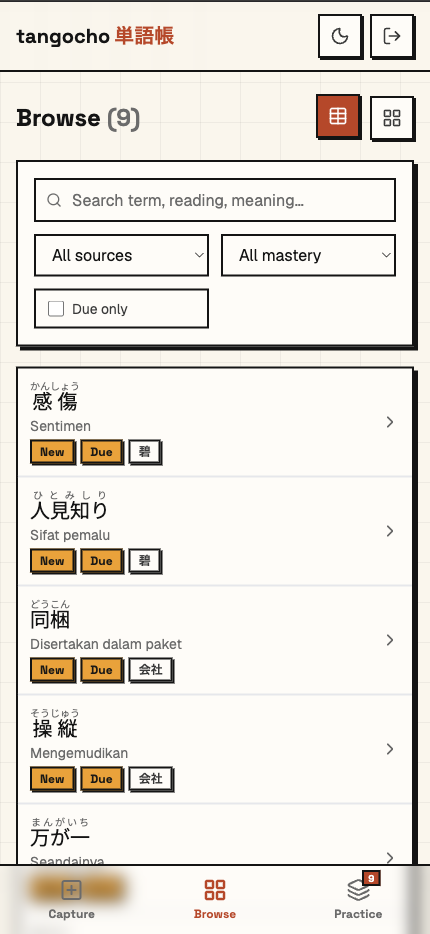
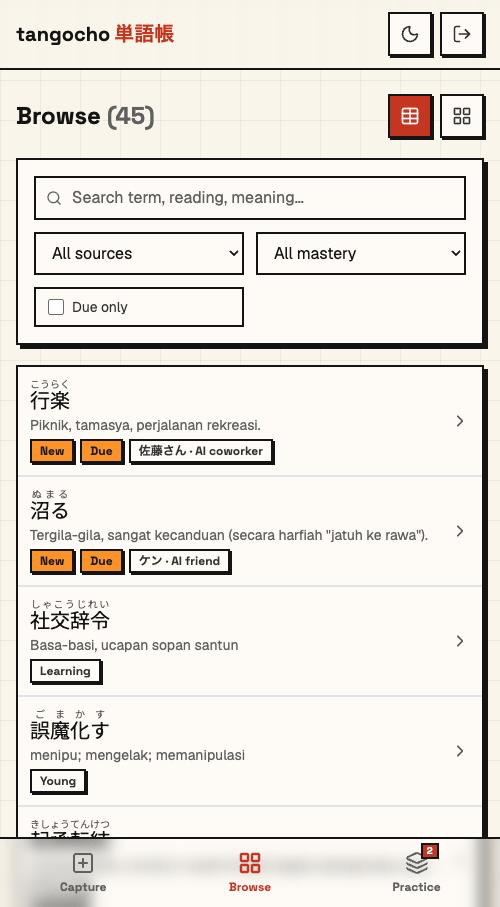
docs: cover AI friends and daily push on /about and in the README
About page gains Friends and Reminders feature cards (EN/JA), the new
pipeline in "How it's built", Web Push/Vercel Cron badges and a Friends
screenshot. All app screenshots retaken on the current UI; landing
screenshot refreshed. README documents the daily-word pipeline, cron,
structure and env vars. .env.local.example is now tracked (it was
gitignored) with the new variables and a placeholder email.

Changed region(s): [[0.0, 0.0, 1.0, 1.0], [0.0302, 0.0, 0.4233, 0.0617]]

diff --git a/constants/aboutCopy.ts b/constants/aboutCopy.ts
@@ -10,7 +10,7 @@ const en = {
     titleBefore: 'Capture Japanese words the moment you hear them — and never ',
     titleHighlight: 'forget',
     titleAfter: ' them.',
-    body: 'A single-user app I built to learn Japanese while living in Japan: fast AI-assisted capture, the memory of where each word came from, and spaced-repetition review.',
+    body: 'A single-user app I built to learn Japanese while living in Japan: fast AI-assisted capture, the memory of where each word came from, new words every morning from AI friends, and spaced-repetition review.',
     signIn: 'Sign in',
     portfolio: 'Portfolio ↗',
     private: 'It’s a private, single-account app (email allowlist) — this page is the tour.',
@@ -21,6 +21,8 @@ const en = {
     { title: 'Browse', jp: '一覧', body: 'Every word as a table or bento grid, with furigana. Filter by source, mastery, or what’s due. Tap for full detail.' },
     { title: 'Practice', jp: '復習', body: 'SM-2 spaced-repetition flashcards. Flip, rate forgot / hard / easy, and the app schedules the next review.' },
     { title: 'Speak', jp: '話す', body: 'See the meaning, say the word out loud. Speech recognition checks what it heard against the word, then plays the correct pronunciation so you can compare.' },
+    { title: 'Friends', jp: '友達', body: 'Create AI characters — a casual friend, a polite coworker — with their own themes. Each day they mention 4 new words in a one-line message; keep the ones worth learning.' },
+    { title: 'Reminders', jp: '通知', body: 'A push notification at 07:00 brings a friend’s line and what’s due today, so new words keep coming even on days I forget to open the app.' },
   ],
   story: {
     heading: 'Why I built it',
@@ -47,9 +49,10 @@ const en = {
     browse: { alt: 'Browse list with filters', caption: 'Browse · filter & search' },
     detail: { alt: 'Word detail with furigana example', caption: 'Detail · meaning, example, source' },
     practice: { alt: 'Practice flashcard', caption: 'Practice · SM-2 flashcards' },
-    speak: { alt: 'Speak mode: meaning shown, spoken answer heard and marked correct', caption: 'Speak · say it out loud' },
-    progress: { alt: 'Progress dashboard', caption: 'Progress · mastery & streak' },
-    home: { alt: 'Home dashboard', caption: 'Home · at a glance' },
+    speak: { alt: 'Speak mode: the meaning is shown and a mic button asks for the word in Japanese', caption: 'Speak · say it out loud' },
+    progress: { alt: 'Progress dashboard with mastery, daily reviews and friend-word save rate', caption: 'Progress · mastery & save rate' },
+    friends: { alt: 'Friends page with a casual friend and a polite coworker, and the daily notification toggle', caption: 'Friends · AI characters' },
+    home: { alt: 'Home with today’s words from friends', caption: 'Home · today’s words' },
   },
   carousel: {
     prev: 'Previous screen',
@@ -64,7 +67,11 @@ const en = {
     'SM-2',
     ' algorithm, Speak mode runs entirely in the browser on the ',
     'Web Speech API',
-    ' (recognition + Japanese text-to-speech, no audio stored), and every row is protected by Postgres ',
+    ' (recognition + Japanese text-to-speech, no audio stored). Daily friend words come from one ',
+    'Gemini call a day',
+    ', checked against Jisho and deduplicated, and a ',
+    'Vercel cron + Web Push',
+    ' delivers them at 07:00. Every row is protected by Postgres ',
     'row-level security',
     ' with a single-user Google OAuth allowlist.',
   ],
@@ -81,7 +88,7 @@ const ja: AboutCopy = {
     titleBefore: '聞いたその瞬間に、日本語の単語を取り込む。もう',
     titleHighlight: '忘れない',
     titleAfter: '。',
-    body: '日本で暮らしながら日本語を学ぶために作った、自分専用のアプリ。AIでサッと単語を取り込み、どこで覚えたかを記録し、間隔反復で復習する。',
+    body: '日本で暮らしながら日本語を学ぶために作った、自分専用のアプリ。AIでサッと単語を取り込み、どこで覚えたかを記録し、毎朝AIの友達から新しい単語が届き、間隔反復で復習する。',
     signIn: 'ログイン',
     portfolio: 'ポートフォリオ ↗',
     private: '許可された1アカウントだけが使える非公開アプリ（メール許可リスト）。このページはその紹介です。',
@@ -92,6 +99,8 @@ const ja: AboutCopy = {
     { title: 'Browse', jp: '一覧', body: '全単語をテーブルかベントーグリッドで、ふりがな付きで表示。出典・習熟度・復習期限で絞り込み、タップで詳細を確認。' },
     { title: 'Practice', jp: '復習', body: 'SM-2の間隔反復フラッシュカード。めくって「忘れた／難しい／簡単」で評価すると、次の復習日が自動で決まる。' },
     { title: 'Speak', jp: '話す', body: '意味を見て、単語を声に出して言う。音声認識が聞き取った内容を答えと照合し、正しい発音を再生して聞き比べられる。' },
+    { title: 'Friends', jp: '友達', body: 'タメ口の友達や敬語の同僚など、テーマを持ったAIキャラクターを作れる。毎日ひとことメッセージで新しい単語を4つ教えてくれて、覚えたいものだけ保存する。' },
+    { title: 'Reminders', jp: '通知', body: '毎朝7時に、友達のひとことと今日の復習数をプッシュ通知でお知らせ。アプリを開き忘れた日も、新しい単語が届く。' },
   ],
   story: {
     heading: '作ったきっかけ',
@@ -118,9 +127,10 @@ const ja: AboutCopy = {
     browse: { alt: 'フィルター付きの単語一覧', caption: 'Browse · 絞り込み・検索' },
     detail: { alt: 'ふりがな付き例文のある単語詳細', caption: 'Detail · 意味・例文・出典' },
     practice: { alt: '復習フラッシュカード', caption: 'Practice · SM-2フラッシュカード' },
-    speak: { alt: 'Speakモード：意味が表示され、話した答えが正解と判定された画面', caption: 'Speak · 声に出して言う' },
-    progress: { alt: '進捗ダッシュボード', caption: 'Progress · 習熟度と連続記録' },
-    home: { alt: 'ホームダッシュボード', caption: 'Home · ひと目で確認' },
+    speak: { alt: 'Speakモード：意味が表示され、マイクボタンで日本語の単語を言う画面', caption: 'Speak · 声に出して言う' },
+    progress: { alt: '習熟度、毎日の復習数、友達の単語の保存率がある進捗ダッシュボード', caption: 'Progress · 習熟度と保存率' },
+    friends: { alt: 'タメ口の友達と敬語の同僚、毎日の通知設定がある友達ページ', caption: 'Friends · AIキャラクター' },
+    home: { alt: '友達からの今日の単語があるホーム', caption: 'Home · 今日の単語' },
   },
   carousel: {
     prev: '前の画面',
@@ -135,7 +145,11 @@ const ja: AboutCopy = {
     'SM-2',
     'アルゴリズムで管理。Speakモードは',
     'Web Speech API',
-    'を使ってブラウザ内だけで完結（音声認識＋日本語読み上げ、音声は保存しない）。全テーブルをPostgresの',
+    'を使ってブラウザ内だけで完結（音声認識＋日本語読み上げ、音声は保存しない）。友達の単語は',
+    '1日1回のGemini呼び出し',
+    'で作り、Jishoで確認して重複を除き、',
+    'Vercel Cron＋Web Push',
+    'で毎朝7時に届ける。全テーブルをPostgresの',
     '行レベルセキュリティ',
     'で保護し、Google OAuthの許可リストで利用者を1人に限定。',
   ],

diff --git a/app/about/page.tsx b/app/about/page.tsx
@@ -3,7 +3,7 @@ import AboutContent from '@/components/about/AboutContent';
 
 const BASE_URL = 'https://tangocho.yudidputra.com';
 const description =
-  'tangocho (単語帳) is a Japanese vocabulary tracker: capture words with AI auto-fill, remember where you learned them, review with SM-2 spaced repetition, and practise saying them out loud.';
+  'tangocho (単語帳) is a Japanese vocabulary tracker: capture words with AI auto-fill, remember where you learned them, get daily words from AI friends, review with SM-2 spaced repetition, and practise saying them out loud.';
 
 export const metadata: Metadata = {
   title: 'tangocho — Japanese vocabulary tracker with spaced repetition',
@@ -27,7 +27,7 @@ export const metadata: Metadata = {
     description,
     locale: 'en_US',
     images: [
-      { url: '/screenshots/home.png', width: 1280, height: 720, alt: 'tangocho home dashboard' },
+      { url: '/screenshots/home.png', width: 500, height: 907, alt: 'tangocho home with today’s words from AI friends' },
     ],
   },
   twitter: {

diff --git a/components/about/AboutContent.tsx b/components/about/AboutContent.tsx
@@ -11,7 +11,7 @@ import SourceMarquee from '@/components/about/SourceMarquee';
 import ScreenshotCarousel from '@/components/about/ScreenshotCarousel';
 import { useAboutLanguage } from '@/components/about/useAboutLanguage';
 
-const SHOT_ORDER = ['capture', 'browse', 'detail', 'practice', 'speak', 'progress', 'home'] as const;
+const SHOT_ORDER = ['home', 'capture', 'browse', 'detail', 'practice', 'speak', 'friends', 'progress'] as const;
 
 const stack = [
   'Next.js 16 (App Router)',
@@ -22,6 +22,8 @@ const stack = [
   'Jisho API',
   'SM-2 algorithm',
   'Web Speech API',
+  'Web Push',
+  'Vercel Cron',
   'Tailwind CSS',
   'PWA',
 ];

diff --git a/components/about/PhoneFrame.tsx b/components/about/PhoneFrame.tsx
@@ -18,8 +18,8 @@ export default function PhoneFrame({
       <Image
         src={src}
         alt={alt}
-        width={432}
-        height={936}
+        width={500}
+        height={907}
         priority={priority}
         sizes="(min-width: 640px) 260px, 80vw"
         className="block h-auto w-full"

diff --git a/README.md b/README.md
@@ -1,6 +1,6 @@
 # tangocho 単語帳
 
-A personal Japanese vocabulary notebook — capture words with AI auto-fill, remember **where** you learned them, and review them with spaced repetition.
+A personal Japanese vocabulary notebook — capture words with AI auto-fill, remember **where** you learned them, get new words every morning from AI "friends", and review them with spaced repetition.
 
 **Live:** [tangocho.yudidputra.com](https://tangocho.yudidputra.com) · single-user (email allowlist), so the public [`/about`](https://tangocho.yudidputra.com/about) page is the tour.
 
@@ -10,14 +10,15 @@ A personal Japanese vocabulary notebook — capture words with AI auto-fill, rem
 
 ## Why
 
-I'm an Indonesian developer living in Japan. I pick up new words every day — from friends, dramas, anime, signs, social media — and forget them almost immediately. Notes apps get messy and I lose track of where a word came from.
+I'm an Indonesian developer living in Japan. I pick up new words every day — from friends, dramas, anime, signs, social media — and forget them almost immediately. I used to write them in a paper notebook (kanji, furigana, an arrow, a meaning), but every reading took a lookup, I forgot where I'd heard each word, and the pages never quizzed me.
 
-tangocho is built around four ideas:
+tangocho is built around five ideas:
 
 - **Capture** — type a word; it auto-fills the reading (furigana), **Indonesian** + **English** meanings, and an example sentence, so adding a word takes seconds. Tag the source — _"Midnight Diner S2 Ep.3"_, _"Sato-san at work"_, _"Twitter"_ — because the memory of where you heard it is half of remembering it.
 - **Browse** — every word as a table or bento grid, with furigana, filterable by source, mastery, or what's due.
 - **Practice** — SM-2 spaced-repetition flashcards so saved words actually stick.
 - **Speak** — see the meaning, say the word out loud. Reading a word isn't the same as being able to say it.
+- **Friends** — on days I don't add anything, AI characters I define (a casual friend, a polite coworker) each mention a word in a one-line message; I keep the ones worth learning.
 
 ## Features
 
@@ -26,7 +27,9 @@ tangocho is built around four ideas:
 - 🔁 **SM-2 spaced repetition** — flip cards, rate _forgot / hard / easy_, auto-scheduled reviews + due badge
 - 🎙 **Speak mode** — say the word from its meaning; speech recognition checks it, then the app plays the correct pronunciation (in-browser, free, no audio stored)
 - 🔊 **Pronunciation audio** — play any word in Practice or Browse
-- 📊 **Progress** — mastery distribution, review streak, last-14-days activity
+- 💬 **AI friends** — characters with a relationship (friend = casual タメ口, coworker = polite/business), themes and a persona; 4 words a day on Home, each inside the friend's line, Jisho-checked and never repeated. Save, mark _known_, or skip — reactions steer the next day's picks
+- 🔔 **Daily push** — 07:00 JST web push with a friend's line and what's due (iOS home-screen app included)
+- 📊 **Progress** — mastery distribution, review streak, last-14-days activity, friend-word save rate
 - 📱 **PWA** — installable, offline shell, home-screen icon (守)
 - 🔒 **Private** — Google OAuth + single-email allowlist, Postgres row-level security on every table
 
@@ -40,8 +43,9 @@ tangocho is built around four ideas:
 | **AI** | Vercel AI SDK v6 + `@ai-sdk/google` (`gemini-2.5-flash`), structured output via `generateObject` + Zod |
 | **Dictionary** | Jisho public API (primary) → Gemini (fallback / Indonesian + examples) |
 | **Speech** | Web Speech API — `SpeechRecognition` (`ja-JP`) + `speechSynthesis`, no server or quota |
+| **Push & jobs** | Web Push (`web-push`, VAPID) + a daily Vercel Cron |
 | **Hosting** | Vercel + Supabase, entirely on free tiers |
-| **Tests** | Vitest (SM-2 engine, Jisho matching, speech matching, progress stats) |
+| **Tests** | Vitest (SM-2 engine, Jisho matching, speech matching, progress stats, daily-word filtering, push payload) |
 
 A few details worth highlighting:
 
@@ -49,18 +53,21 @@ A few details worth highlighting:
 - **Auth & isolation** — a single `ALLOWED_EMAIL` is enforced in proxy middleware; non-allowlisted Google accounts get a friendly "not you" screen. RLS means even a leaked anon key exposes nothing.
 - **SM-2** (`lib/srs.ts`) — a pure, unit-tested 3-button variant (forgot→q2, hard→q3, easy→q5) computing ease factor, interval, and next due date.
 - **Speak mode** (`lib/speech.ts`, `components/practice/useSpeechRecognition.ts`) — recognition alternatives are matched against the term *or* its reading (katakana folded to hiragana). A match only suggests the rating; you still rate, so a mishearing never corrupts the schedule. Interim results are kept and flushed on stop, because macOS Safari never finalizes on its own.
+- **Daily friend words** (`lib/daily.ts`) — one `generateObject` call a day returns every field (reading, meanings, the friend's line with furigana, translations), so saving costs no further AI requests on Gemini's free tier. Difficulty follows the relationship: JLPT only covers textbook Japanese, so coworkers aim at N2–N1/business vocabulary while friends pick slang textbooks skip. Each word is checked against Jisho (whose reading/POS win, but not its literal meaning for slang — 草 stays "lol", not "grass") and deduplicated against everything ever saved or suggested.
+- **Push & cron** (`app/api/cron/daily`, `lib/push.ts`, `public/sw.js`) — at 07:00 JST a `CRON_SECRET`-guarded route pre-generates the day's words and sends one web push. It runs without a user session, so it uses a server-only service-role client and every query filters by `user_id` explicitly.
 
 ## Project structure
 
 ```
 app/
-  (app)/            # authenticated shell: dashboard, capture, browse, practice, progress
+  (app)/            # authenticated shell: home, capture, browse, practice, progress, friends
   about/            # public landing (portfolio showcase)
   login/ denied/    # auth screens
   auth/callback/    # OAuth code exchange + allowlist enforcement
   api/enrich/       # Jisho + Gemini enrichment
-components/         # ui primitives (Card/Button/Badge), SourceField, flashcards…
-lib/                # supabase clients, srs, speech, jisho, mastery, hooks
+  api/cron/daily/   # 07:00 JST: pre-generate friend words + web push
+components/         # ui primitives (Card/Button/Badge), SourceField, flashcards, friends, home…
+lib/                # supabase clients, srs, speech, jisho, mastery, daily words, push, hooks
 supabase/migrations # schema + RLS
 proxy.ts            # session refresh + route protection + allowlist
 ```
@@ -78,8 +85,12 @@ Environment variables:
 ```
 NEXT_PUBLIC_SUPABASE_URL=
 NEXT_PUBLIC_SUPABASE_ANON_KEY=
+SUPABASE_SECRET_KEY=                # service role, server-only — used by the daily cron
 ALLOWED_EMAIL=
 GOOGLE_GENERATIVE_AI_API_KEY=       # free key from aistudio.google.com/apikey
+NEXT_PUBLIC_VAPID_PUBLIC_KEY=       # npx web-push generate-vapid-keys
+VAPID_PRIVATE_KEY=
+CRON_SECRET=                        # openssl rand -hex 32; Vercel sends it to the cron
 ```
 
 Commands:
